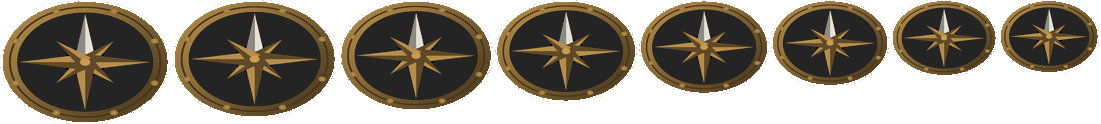
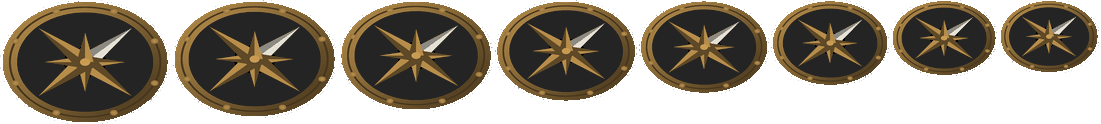
Panel art: cracked stone buttons, partner gauge, compass north up-right
The open pack's slate plaque is now split by cracks into a stone under
each word (STATUS, ITEM) above a carved band, and the click highlights
are those stones. The companion's gauge has its name low on the left
like the original's. The compass rose's north points up and right, along
the map's north, before it is flattened onto the ground.

Claude-Session: https://claude.ai/code/session_017w2Q2edosxW8nd4dfcmeXc

diff --git a/tools/art/panel.py b/tools/art/panel.py
@@ -116,6 +116,77 @@ def tube_frame(p, x, y, w, h):
 STONE_DARK = ui.STONE * 0.55
 
 
+# The crack between the STATUS and ITEM stones, top to bottom, in screen
+# pixels. It keeps clear of both buttons' click areas (src/game/panel.cpp)
+# and of the original's highlight rectangles, which the stones fill.
+CRACK = [(592, 410), (588, 418), (583, 425), (580, 431), (581, 437), (578, 445), (575, 453), (573, 461)]
+BAND_TOP = 463  # the carved band below the two stones
+
+
+def crack_x(y):
+    """Where the crack runs at screen row y, with a little wobble."""
+    ys = [py for _, py in CRACK]
+    xs = [px for px, _ in CRACK]
+    return np.interp(y, ys, xs) + 0.8 * np.sin(y * 1.7)
+
+
+def stones(slate):
+    """Masks of the STATUS stone, the ITEM stone and the carved band."""
+    yy, xx = ui.yy, ui.xx
+    sy = yy + TOP
+    cx = crack_x(sy)
+    menu = (xx >= MENU_TAB[0] - 1) & (sy < MENU_TAB[1] + MENU_TAB[3] + 1)
+    under_band = sy >= BAND_TOP - 1 + 1.2 * np.sin(xx / 7)
+    status = slate & (sy >= 403) & (xx < cx - 1) & ~menu & ~under_band & (sy < BAND_TOP - 2)
+    item = slate & (sy >= 417) & (xx > cx + 1) & ~under_band & (sy < BAND_TOP - 2)
+    band = slate & (sy >= BAND_TOP + 1.2 * np.sin(xx / 7) + 1)
+    return status, item, band
+
+
+def bevel(mask):
+    """1 inside a mask, falling off over 2 pixels at its edges."""
+    m = mask.astype(float)
+    out = m.copy()
+    for shift in (1, 2):
+        for dy, dx in ((shift, 0), (-shift, 0), (0, shift), (0, -shift)):
+            out = np.minimum(out, np.roll(np.roll(m, dy, 0), dx, 1) * (1 - 0.3 * (shift - 1)) + 0.3 * (shift - 1))
+    return out * m
+
+
+def carve(p, band):
+    """The band below the stones: a row of carved rings and bars."""
+    yy, xx = ui.yy, ui.xx
+    mid = BAND_TOP - TOP + 9
+    for k, x in enumerate(range(PLAQUE_LEFT[1] + 8, 640, 13)):
+        if k % 2 == 0:
+            mark = np.abs(np.hypot(xx - x, (yy - mid) * 1.3) - 4) < 1.1
+        else:
+            mark = (np.abs(xx - x) < 1.1) & (np.abs(yy - mid) < 6)
+        mark &= band
+        p.colour[mark] = SLATE * 0.4
+        p.height[mark] -= 2
+
+
+def piece_mask(rect, which):
+    """A highlight for a clicked button: its stone, white, cut to the
+    original's rectangle for that highlight."""
+    ui.canvas(640, 80)
+    slate = np.ones((80, 640), bool)
+    left = np.where(ui.yy < 445 - TOP, PLAQUE_LEFT[0], PLAQUE_LEFT[1]) + 3 * np.sin(ui.yy / 5)
+    slate &= ui.xx >= left
+    if which == "menu":
+        mask = inside(MENU_TAB[0], MENU_TAB[1] - TOP, 640, MENU_TAB[1] - TOP + MENU_TAB[3])
+    else:
+        status, item, _ = stones(slate)
+        mask = status if which == "status" else item
+    x, y, w, h = rect
+    crop = mask[y - TOP:y - TOP + h, x:x + w]
+    out = np.zeros((h, w, 4), np.uint8)
+    out[..., :3] = 255
+    out[..., 3] = np.where(crop, 255, 0)
+    return Image.fromarray(out, "RGBA")
+
+
 def body():
     """Patterns 7 and 8 together: 640 x 80, from screen row 400."""
     ui.canvas(640, 80)
@@ -138,16 +209,21 @@ def body():
     p.colour[smoke] = (SMOKE * (0.7 + 0.6 * p.noise(14, 3))[..., None])[smoke]
     p.height[smoke] = 0.8 * p.noise(4, 2)[smoke]
 
-    # The slate plaque on the right, with a few cracks and a raised rim.
+    # The slate plaque on the right, broken by cracks into a stone button
+    # under each word: STATUS, ITEM, and below them a carved band.
     left = np.where(yy < 445 - TOP, PLAQUE_LEFT[0], PLAQUE_LEFT[1]) + 3 * np.sin(yy / 5)
     slate = (xx >= left) & (yy >= 1)
-    tone = 0.75 + 0.5 * p.noise(30, 4)
+    tone = 0.6 + 0.7 * p.noise(30, 4) + 0.25 * (p.noise(3, 2) - 0.5)
     p.colour[slate] = (SLATE * tone[..., None])[slate]
-    p.height[slate] = 4 + 1.5 * p.noise(12, 3)[slate]
-    vein = p.noise(40, 2)
-    crack = slate & (np.abs(vein - 0.5) < 0.012)
-    p.colour[crack] = SLATE * 0.3
-    p.height[crack] -= 2
+    p.height[slate] = 2.0 * p.noise(6, 3)[slate]
+    status, item, band = stones(slate)
+    for piece, lift in ((status, 4.0), (item, 4.0), (band, 2.0)):
+        p.height += lift * bevel(piece)
+    cracks = slate & ~(status | item | band)
+    cracks &= ~inside(MENU_TAB[0], 0, 640, MENU_TAB[1] - TOP + MENU_TAB[3])
+    p.colour[cracks] = SLATE * 0.25
+    p.height[cracks] -= 1.5
+    carve(p, band)
     edge = slate & ~((xx >= left + 2) & (yy >= 3))
     p.bronze(edge & (xx < 639), 1.5)
     alpha[slate] = 1
@@ -297,7 +373,7 @@ def rail_rows(fx, step, rising):
     return top, top + 1
 
 
-def rail_frame(w, h, step, rising, gauge_x, label, tag_x):
+def rail_frame(w, h, step, rising, gauge_x, label, tag_x, ink=(150, 200, 255, 255)):
     """A gauge's track: a dark channel in a black outline that steps up
     (or down) once, with a lit inner edge, and its name on a small tag."""
     img = Image.new("RGBA", (w, h), (0, 0, 0, 0))
@@ -313,14 +389,14 @@ def rail_frame(w, h, step, rising, gauge_x, label, tag_x):
         for yy, row in enumerate(TINY[ch]):
             for xx, bit in enumerate(row):
                 if bit == "#":
-                    img.putpixel((tag_x + k * 4 + xx, 8 + yy), (150, 200, 255, 255))
+                    img.putpixel((tag_x + k * 4 + xx, 8 + yy), ink)
     return img
 
 
-def rail_gauge(w, h, offset, step, rising, colour, pale):
+def rail_gauge(w, h, offset, step, rising, colour, pale, start=0):
     """What fills a rail_frame's track, from `colour` to `pale` along it."""
     img = Image.new("RGBA", (w, h), (0, 0, 0, 0))
-    for gx in range(w):
+    for gx in range(max(0, start - offset[0]), w):
         r0, r1 = rail_rows(gx + offset[0], step, rising)
         t = gx / (w - 1) if rising else 1 - gx / (w - 1)
         c = tuple(int(a + (b - a) * t) for a, b in zip(colour, pale))
@@ -337,16 +413,6 @@ TINY = {"E": ["###", "#..", "##.", "#..", "###"], "X": ["#.#", "#.#", ".#.", "#.
         "T": ["###", ".#.", ".#.", ".#.", ".#."], "N": ["#.#", "###", "###", "###", "#.#"],
         "C": ["###", "#..", "#..", "#..", "###"], "I": ["###", ".#.", ".#.", ".#.", "###"],
         "V": ["#.#", "#.#", "#.#", "#.#", ".#."], " ": ["...", "...", "...", "...", "..."]}
-
-
-def glow(w, h, cx, cy, rx, ry):
-    """A soft white patch for a button flashing when clicked."""
-    y, x = np.mgrid[0:h, 0:w].astype(float)
-    a = np.clip(1.2 - np.hypot((x - cx) / rx, (y - cy) / ry), 0, 1)
-    out = np.zeros((h, w, 4), np.uint8)
-    out[..., :3] = 255
-    out[..., 3] = (a * 255).astype(np.uint8)
-    return Image.fromarray(out, "RGBA")
 
 
 def digit(n):
@@ -387,12 +453,14 @@ def main():
         (power("lit"), *POWER[:2]), (power("pressed"), *POWER[:2]),
         (rail_gauge(109, 10, (15, 2), 50, True, (40, 80, 220), (200, 230, 255)), 530, 395),
         (rail_frame(126, 14, 50, True, 14, "EXP", 1), 515, 393),
-        (glow(68, 46, 42, 24, 30, 14), 572, 416), (glow(57, 13, 35, 6, 26, 7), 583, 401),
-        (glow(96, 54, 46, 20, 34, 13), 509, 408),
+        (piece_mask((572, 416, 68, 46), "item"), 572, 416), (piece_mask((583, 401, 57, 13), "menu"), 583, 401),
+        (piece_mask((509, 408, 96, 54), "status"), 509, 408),
     ]
     parts += [(digit(n), 0, 0) for n in range(10)]
-    parts += [(rail_gauge(109, 10, (1, 2), 80, False, (250, 200, 200), (220, 40, 40)), 1, 397),
-              (rail_frame(112, 14, 80, False, 0, "PARTNER HP", 70), 0, 395),
+    # The companion's gauge: its name low on the left, the rail stepping
+    # up beyond it; the exe fills it from the right (partner.cpp).
+    parts += [(rail_gauge(109, 10, (1, 2), 62, True, (220, 40, 40), (255, 190, 190), 42), 1, 397),
+              (rail_frame(112, 14, 62, True, 42, "PARTNER HP", 1, (255, 140, 150, 255)), 0, 395),
               (mode_label("ACTIVE", (255, 120, 120, 255)), 56, 392), (mode_label("INACTIVE", (170, 170, 170, 255)), 56, 392)]
     # One sheet: the panel's two pieces on top, the small parts in rows under them.
     width, x, y, row = 640, 0, 80, 0

diff --git a/tools/art/ui.py b/tools/art/ui.py
@@ -517,8 +517,10 @@ def compasses(out):
     rgb[disc] = np.array([30, 34, 44]) * (1.0 - 0.3 * r[disc])[:, None]
     alpha[disc] = 0.85
     # The rose: four long points and four short ones, each lit on one side.
+    # North points up and right, along the map's north as the original's
+    # needle does: 45 degrees here, about 36 once flattened.
     for k in range(8):
-        ang = k * np.pi / 4 - np.pi / 2
+        ang = k * np.pi / 4 - np.pi / 4
         length = 0.78 if k % 2 == 0 else 0.48
         width = 0.13 if k % 2 == 0 else 0.10
         along = x * np.cos(ang) + y * np.sin(ang)
